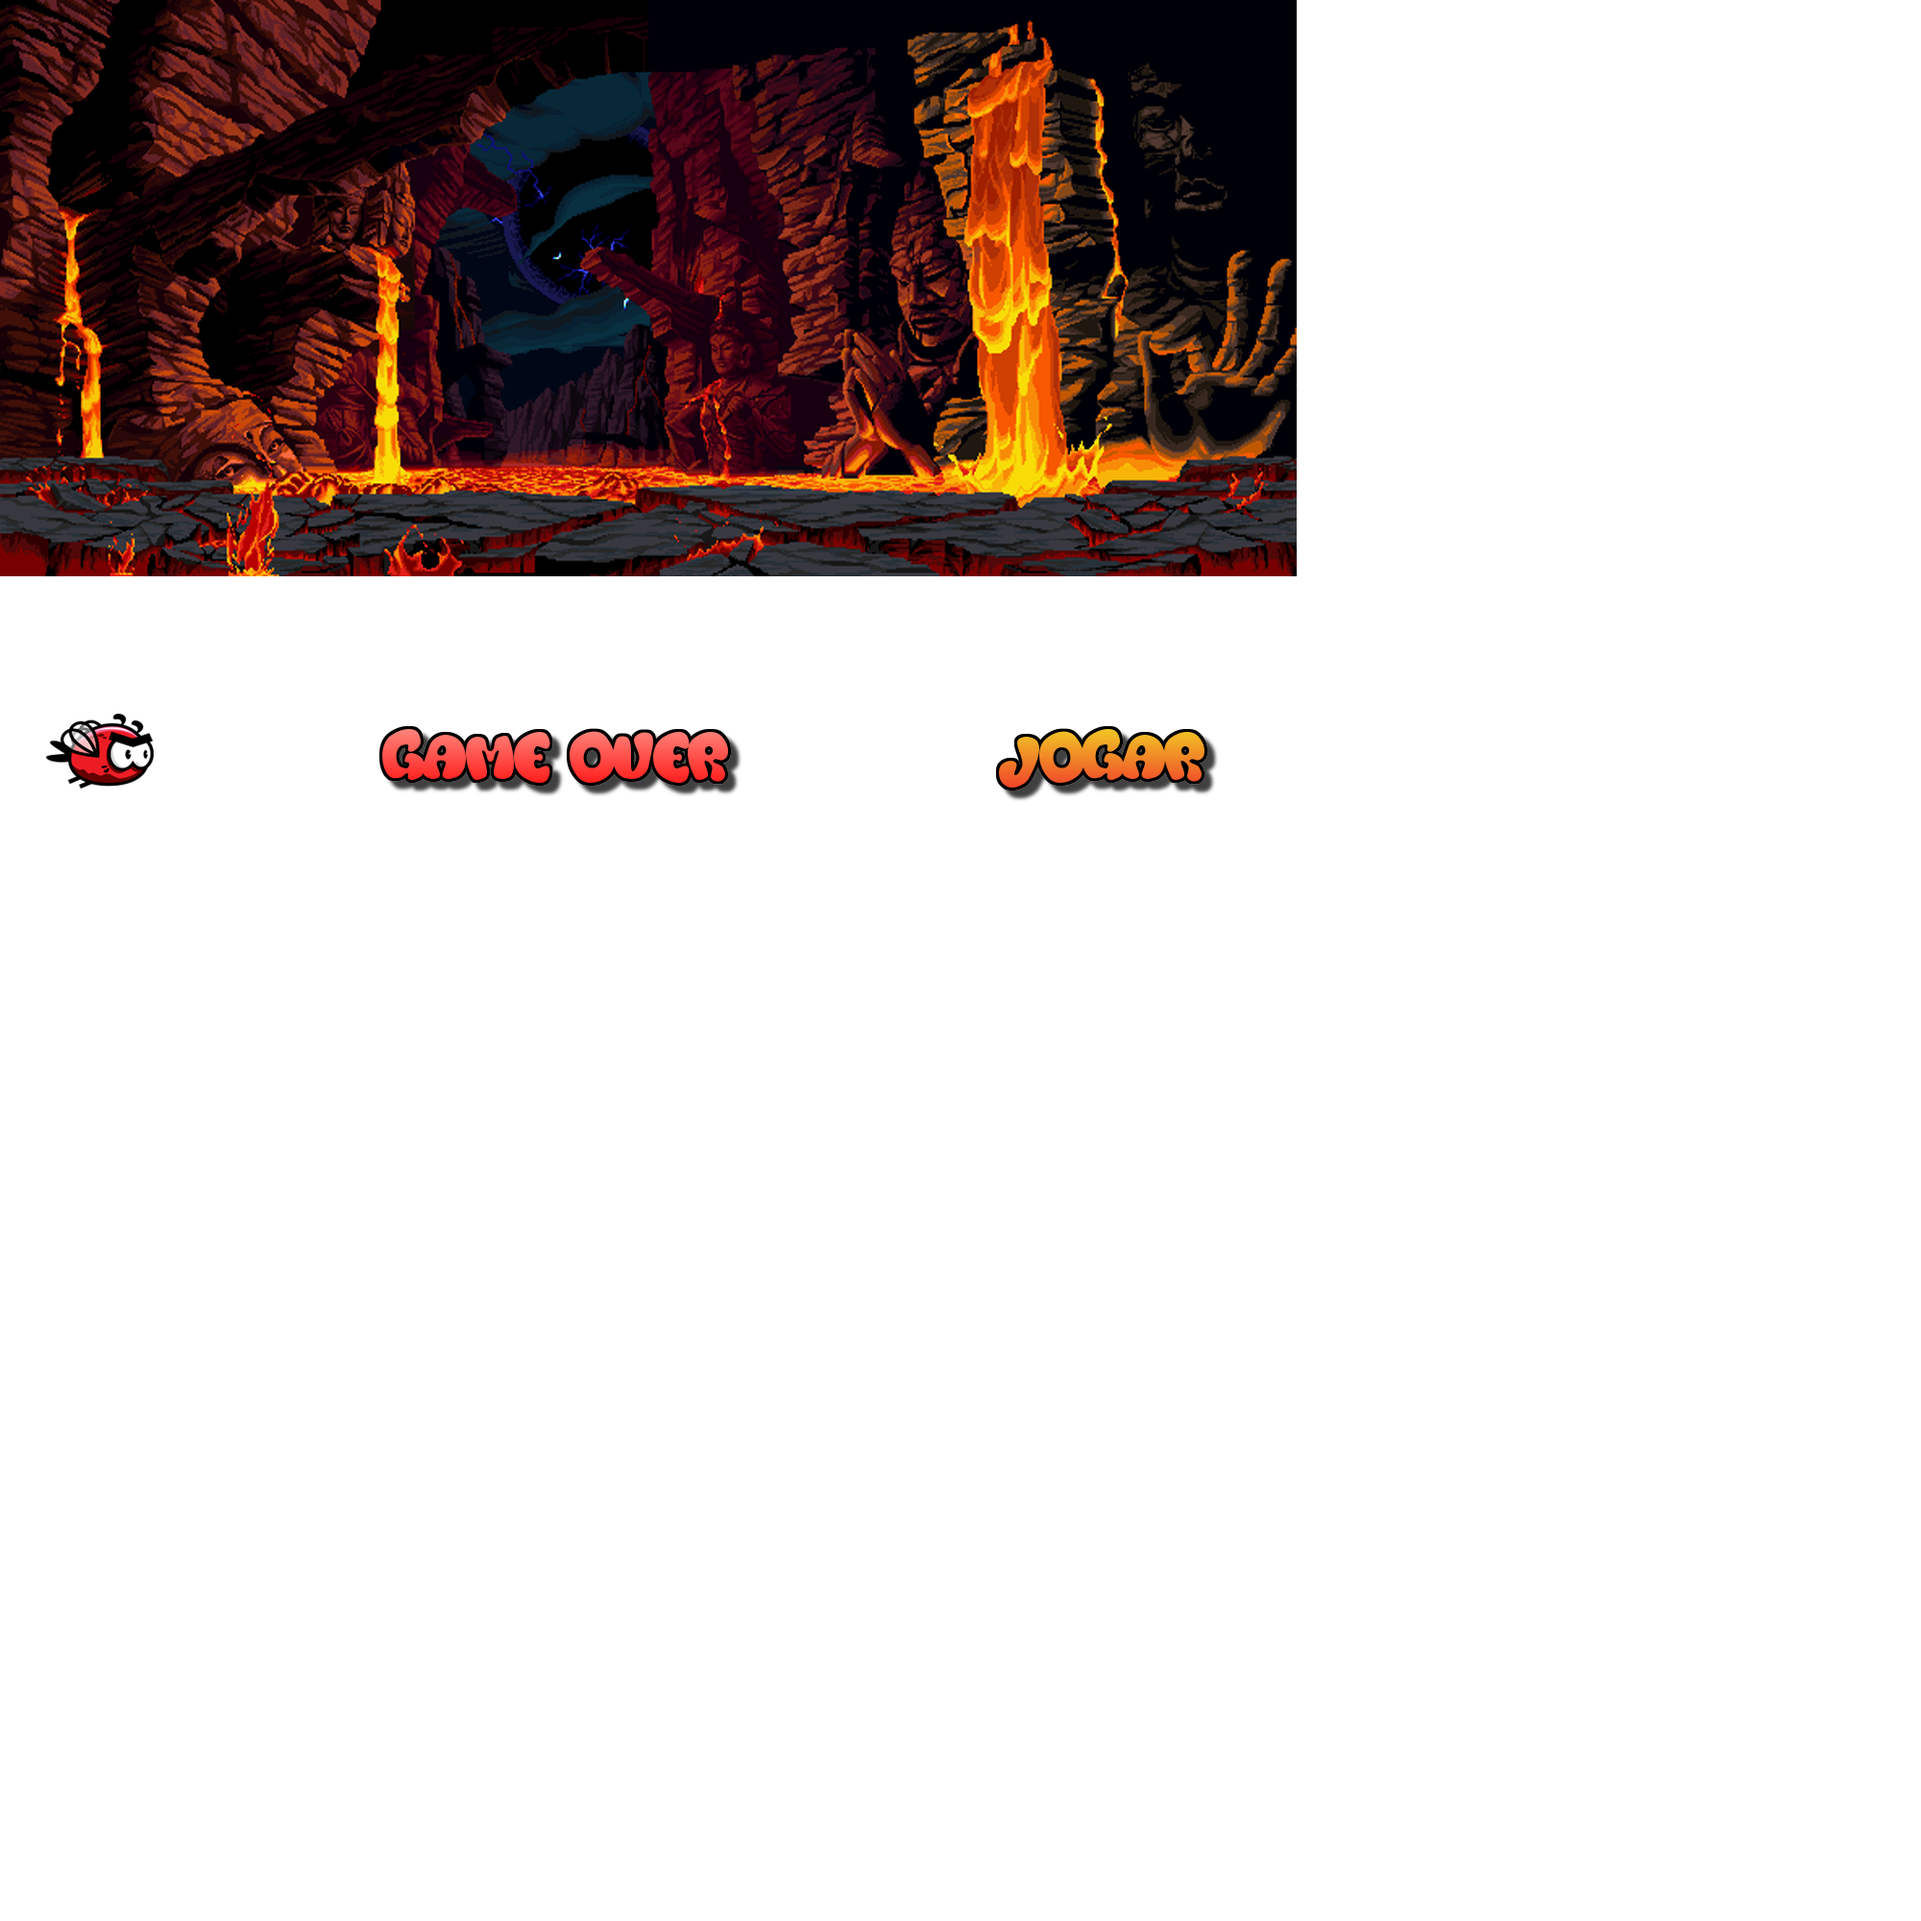
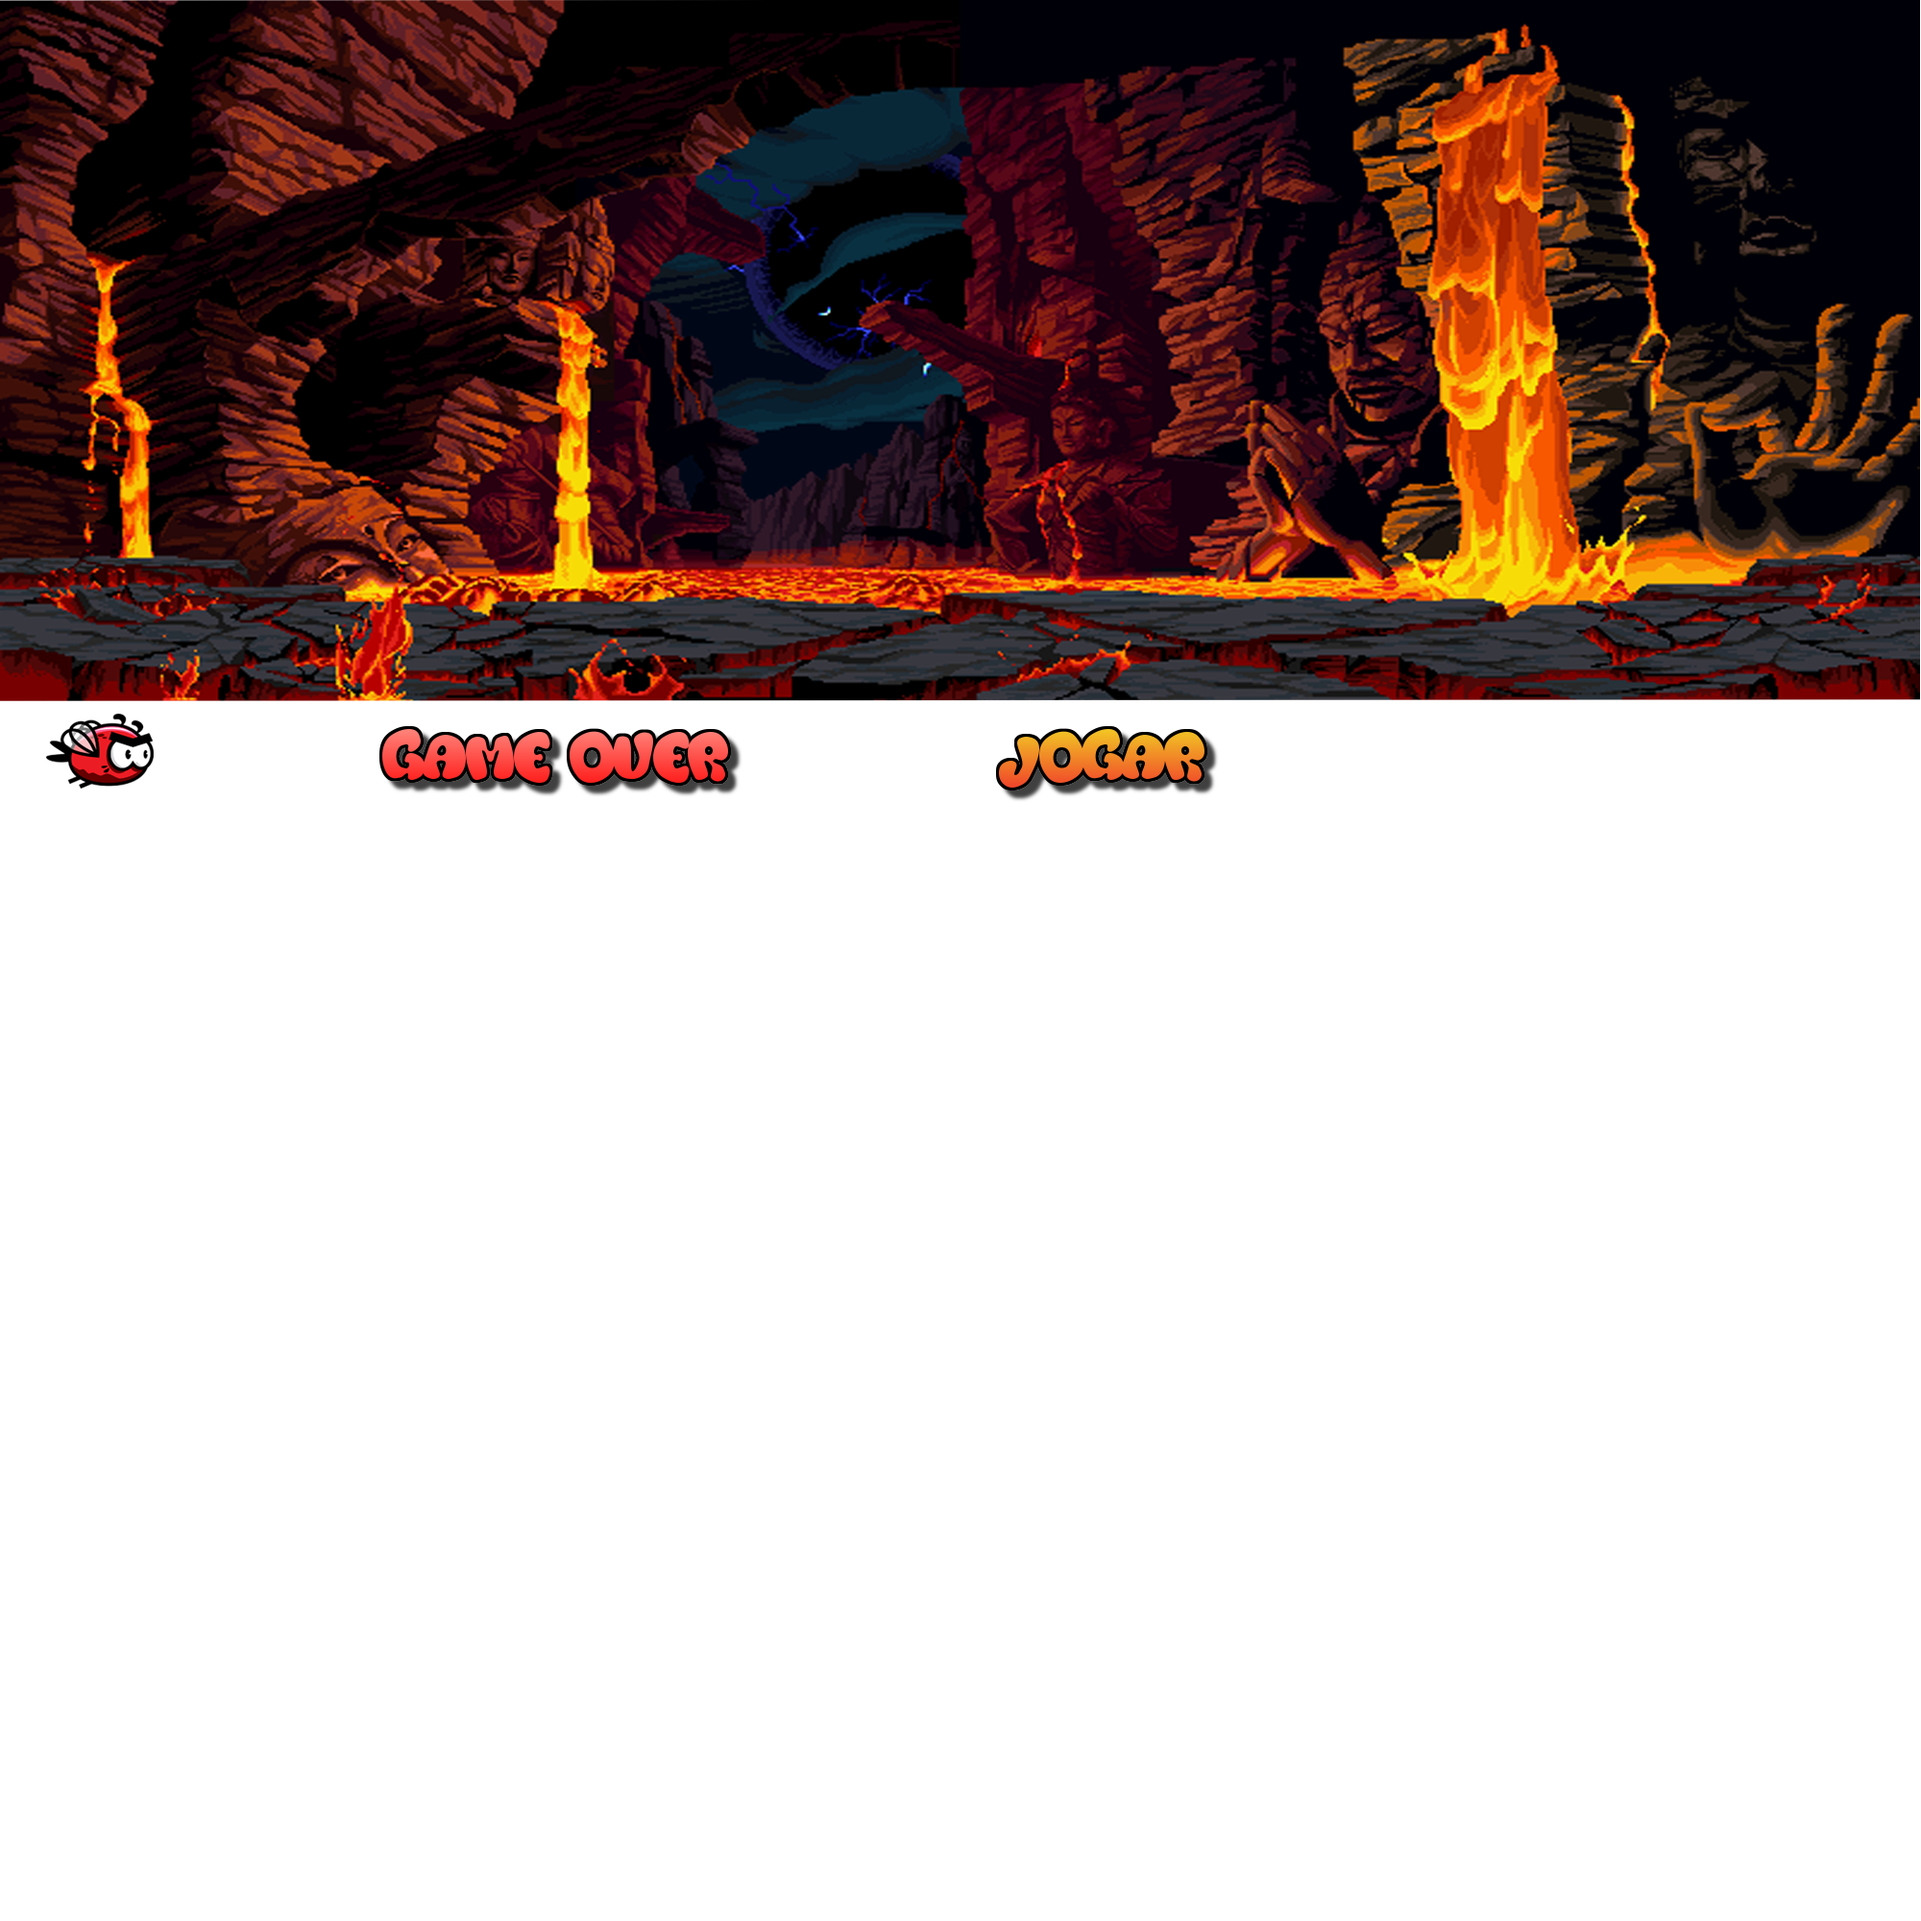
Second Version

diff --git a/Jogo.html b/Jogo.html
@@ -31,7 +31,7 @@
 	var largura;
 	var frames = 0;
 	var maximopulos = 3;
-	var velocidade = 6;
+	var velocidade = 15;
 	var situacaoatual;
 	var img;
 	
@@ -46,8 +46,8 @@
 	//----------------------------Especificações/variáveis do chão-------------------------------------------------------
 	
 	ground = {
-	y: 550,
-	altura: 50,
+	y: 650,
+	altura: 300,
 	cor: "#392613",
 	
 	desenha: function() {
@@ -78,7 +78,8 @@
 		if (this.y > ground.y - this.altura && situacaoatual != situacao.perdeu) {
 		this.y = ground.y - this.altura;
 		this.quantidadepulos = 0;
-		this.velocidade = 0;}
+		this.velocidade = 0;
+	}
 	},
 	
 	//----------------------------Função pulo do personagem-----------------------------------------------------------------
@@ -99,7 +100,7 @@
 	
 	obstaculos = {
 		_obs: [],
-		_cores:["#c68c53"],
+		_cores:["#fcba03"],
 		tempoinsere: 0,
 
 	   insere: function () {
@@ -109,7 +110,7 @@
 			   altura_obstaculo: 50,
 			   cor: this._cores
 		   });
-		   this.tempoinsere = 40 + 	Math.floor(35 * Math.random());
+		   this.tempoinsere = 15 + 	Math.floor(35 * Math.random());
 	   },
 
 	   atualiza: function () {
@@ -170,7 +171,7 @@
 	situacaoatual = situacao.jogar;
 	
 	img = new Image();
-	img.src = "images/imagensss.png";
+	img.src = "images/imagensssss.png";
 	
 	
 	execucao();

diff --git a/spritejogo.js b/spritejogo.js
@@ -6,11 +6,11 @@ function Sprite(x, y, largura, altura) {
 
 	
 	this.desenha = function(xCanvas, yCanvas){
-		ctx.drawImage(img, this.x, this.y, this.largura, this.altura, xCanvas, yCanvas, this.largura, this.altura,);
+		ctx.drawImage(img, this.x, this.y, this.largura, this.altura, xCanvas, yCanvas, this.largura, this.altura);
 	}
 }
 
-var bg = new Sprite(0, 0, 1350, 600),
+var bg = new Sprite(0, 0, 2100, 700),
 spritePersonagem = new Sprite(48, 743, 112, 78),
 jogar = new Sprite(1037, 756, 232, 79),
 perdeu = new Sprite(395, 756, 378, 74);

diff --git a/public/Tutorialcss.css b/public/Tutorialcss.css
@@ -61,7 +61,7 @@ h3 {
 
 h1 {
 	font-size: 25px;
-	background: -webkit-linear-gradient(rgb(255, 157, 0), #ffc402);
+	background: -webkit-linear-gradient(rgb(255, 157, 0), #ff6702);
 	-webkit-background-clip: text;
 	-webkit-text-fill-color: transparent;
 	filter: drop-shadow(5px 5px #000000);

diff --git a/public/stylejogo.css b/public/stylejogo.css
@@ -22,10 +22,11 @@ header li {
 }
 
 canvas {
-	position:absolute;
+	position: fixed;
 	top:0;
 	left:0;
 	width:100%;
 	height:100%;
 	z-index:-1;
+	background-color: #392613;
 }
